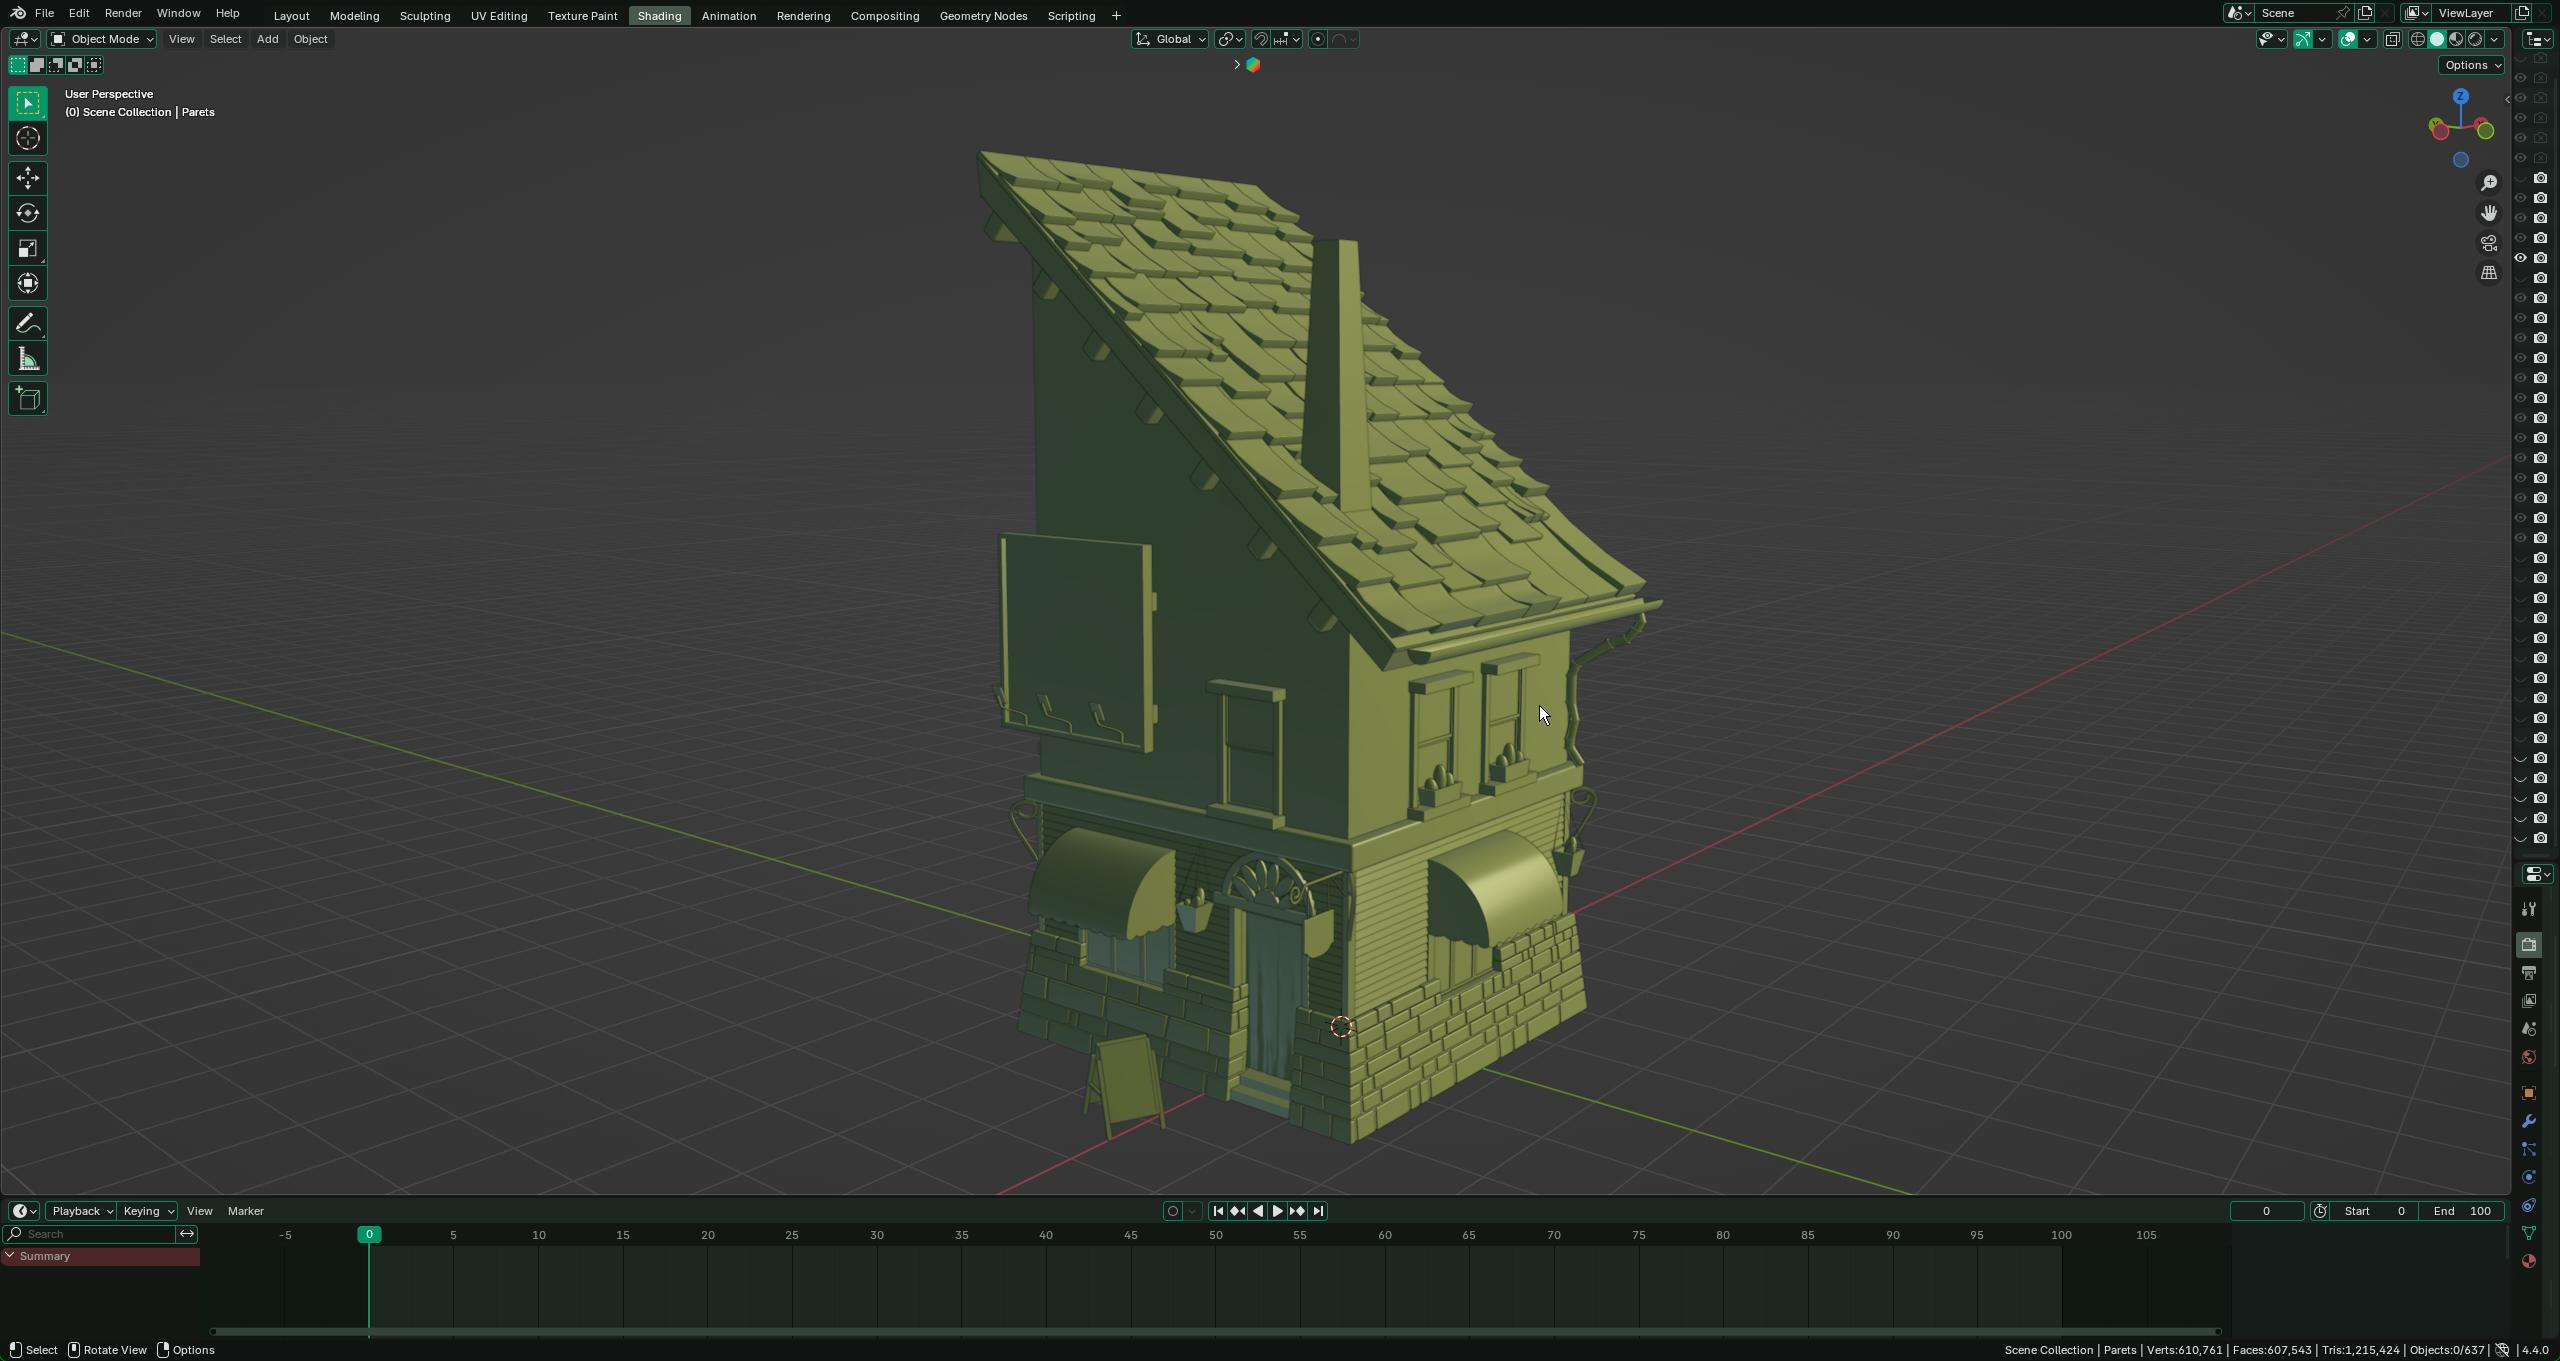
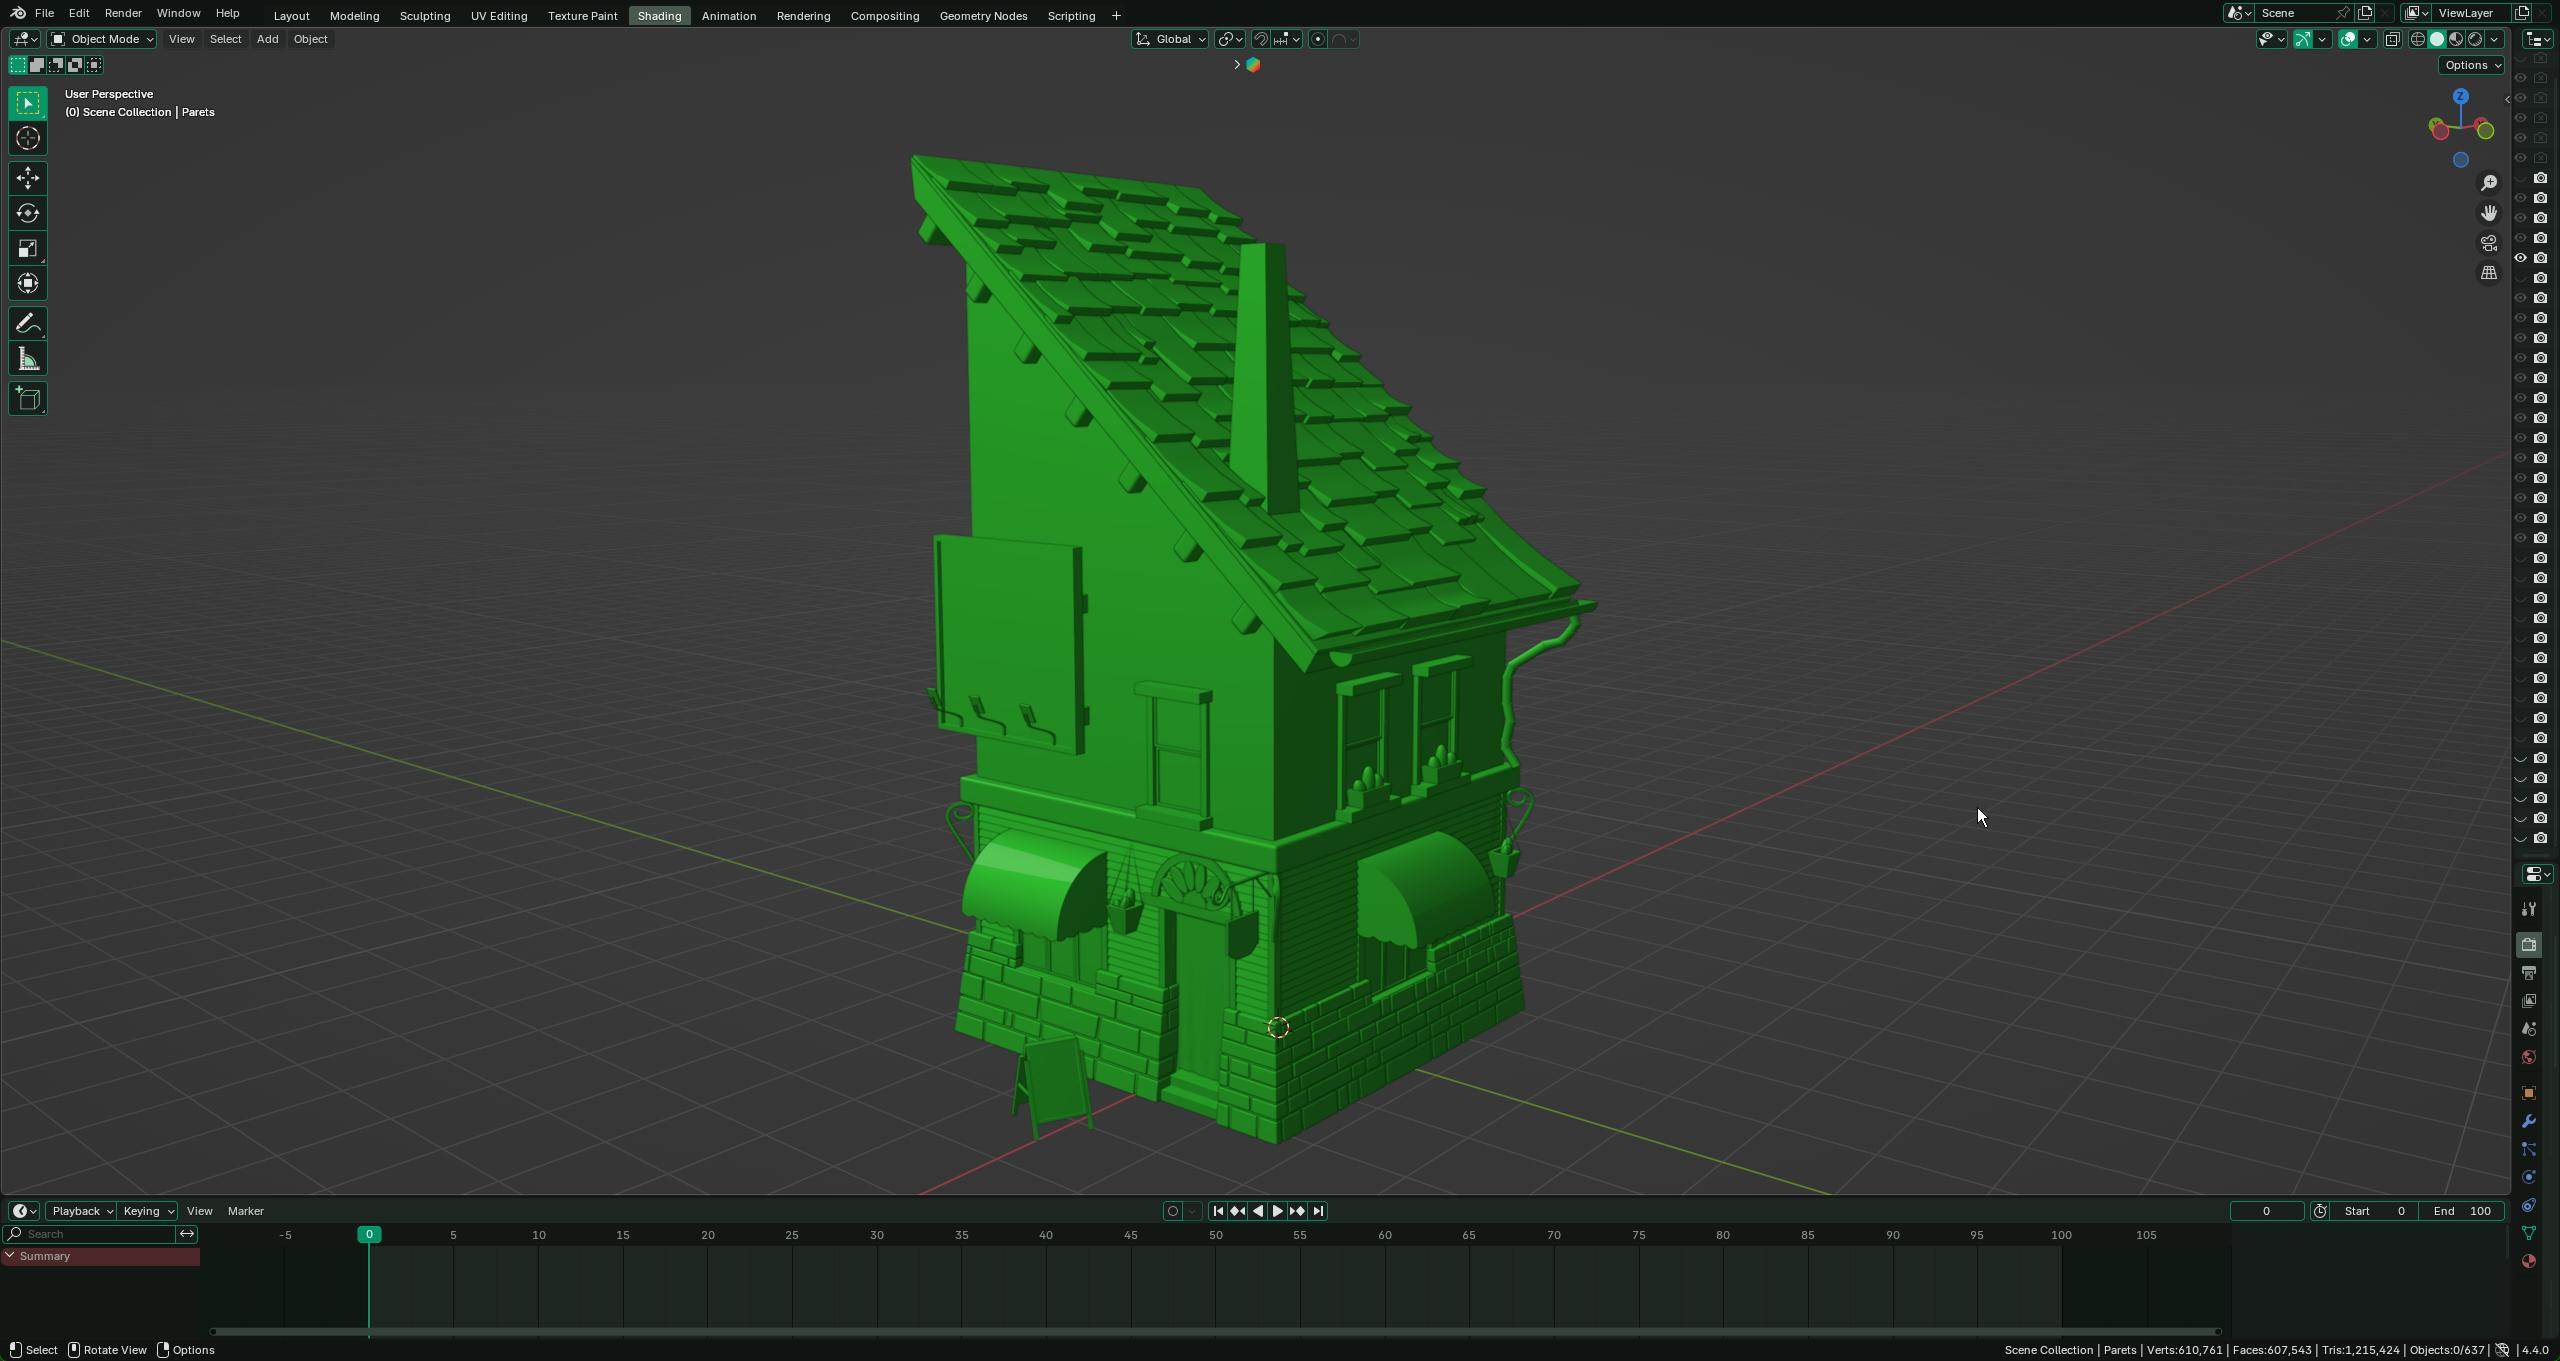
canvis

diff --git a/Styles/Responsive/indexresponsive.css b/Styles/Responsive/indexresponsive.css
@@ -458,7 +458,39 @@
         z-index: 0;
     }
 
+    .GeneralContainer {
+        position: absolute;
+        /* background-color: aquamarine; */
+        width: 100%;
+        margin-top: 10%;
+        display: flex;
+        padding-top: 0%;
+        flex-direction: column;
+        align-items: center;
+    }
 
+    .ContainerFlexOptions {
+        /* background-color: antiquewhite; */
+        margin: 4% 0% 4% 0%;
+        display: flex;
+        align-items: center;
+        justify-content: center;
+        flex-direction: column;
+        width: 90%;
+    }
+
+    .ContainerOption {
+        display: flex;
+        justify-content: center;
+        position: relative;
+        width: 70%;
+        border-radius: 20px;
+        margin-top: 5%;
+        margin-bottom: 5%;
+        color: white;
+        height: 100%;
+        padding: 12% 0%;
+    }
 }
 
 @media (max-width: 738px) {
@@ -589,6 +621,39 @@
         z-index: 0;
     }
 
+    .GeneralContainer {
+        position: absolute;
+        /* background-color: aquamarine; */
+        width: 100%;
+        margin-top: 25%;
+        display: flex;
+        padding-top: 0%;
+        flex-direction: column;
+        align-items: center;
+    }
+
+    .ContainerFlexOptions {
+        /* background-color: antiquewhite; */
+        margin: 4% 0% 4% 0%;
+        display: flex;
+        align-items: center;
+        justify-content: center;
+        flex-direction: column;
+        width: 90%;
+    }
+
+    .ContainerOption {
+        display: flex;
+        justify-content: center;
+        position: relative;
+        width: 80%;
+        border-radius: 20px;
+        margin-top: 5%;
+        margin-bottom: 5%;
+        color: white;
+        height: 100%;
+        padding: 12% 0%;
+    }
 
 }
 
@@ -4428,6 +4493,39 @@
         z-index: 0;
     }
 
+    .GeneralContainer {
+        position: absolute;
+        /* background-color: aquamarine; */
+        width: 100%;
+        margin-top: 35%;
+        display: flex;
+        padding-top: 0%;
+        flex-direction: column;
+        align-items: center;
+    }
+
+    .ContainerFlexOptions {
+        /* background-color: antiquewhite; */
+        margin: 4% 0% 4% 0%;
+        display: flex;
+        align-items: center;
+        justify-content: center;
+        flex-direction: column;
+        width: 90%;
+    }
+
+    .ContainerOption {
+        display: flex;
+        justify-content: center;
+        position: relative;
+        width: 90%;
+        border-radius: 20px;
+        margin-top: 5%;
+        margin-bottom: 5%;
+        color: white;
+        height: 100%;
+        padding: 12% 0%;
+    }
 
 }
 

diff --git a/Styles/Styles.css b/Styles/Styles.css
@@ -360,6 +360,36 @@ button {
 
 /*------------------*/
 
+/* Code for background section project Dwarf */
+
+#BGoptionProjectDwarf {
+  position: relative;
+  overflow: hidden;
+}
+
+#BGoptionProjectDwarf::before {
+  content: "";
+  position: absolute;
+  top: 0;
+  left: 0;
+  width: 100%;
+  height: 100%;
+  background-image: url(../ImagesVideos/BG_ProjectDwarfOption.png);
+  background-size: cover;
+  background-position: center;
+  filter: blur(3px) grayscale(100%);
+  transition: 0.5s;
+  z-index: 0;
+}
+
+#BGoptionProjectDwarf:hover::before {
+  cursor: pointer;
+  filter: blur(0px) grayscale(0%);
+  transition: 0.5s;
+}
+
+/*------------------*/
+
 .ContainerSliderCompar {
   width: 100%;
   /* background-color: antiquewhite; */

diff --git a/projectes.html b/projectes.html
@@ -80,9 +80,9 @@
                     <h1>House</h1>
                 </div>
             </div>
-            <div class="ContainerOption" id="BGoptionProjectDummy">
+            <div class="ContainerOption" id="BGoptionProjectDwarf">
                 <div class="TextContainer">
-                    <h1>Dummy</h1>
+                    <h1>Dwarf</h1>
                 </div>
             </div>
         </div>
